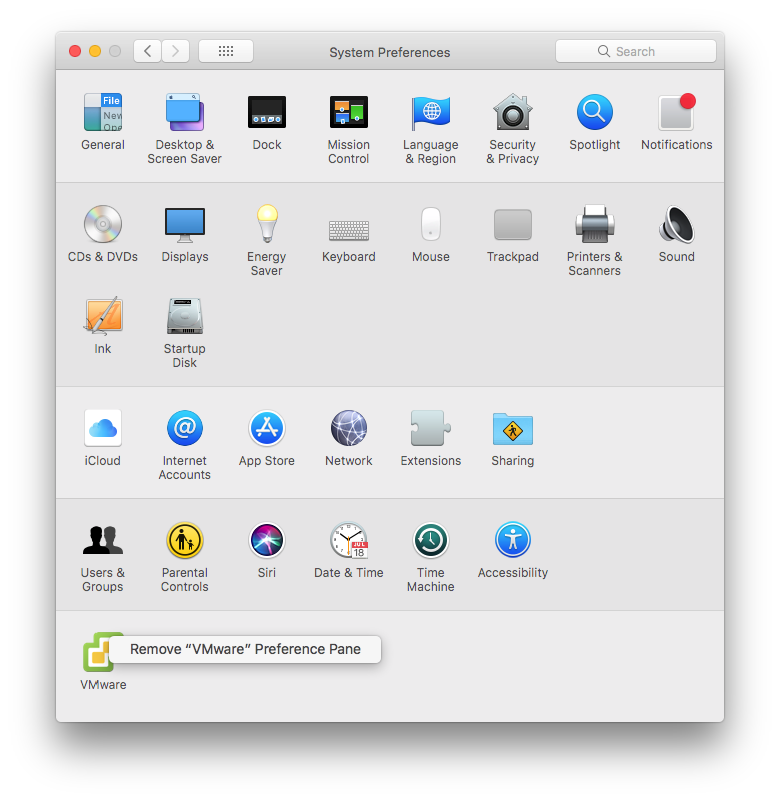
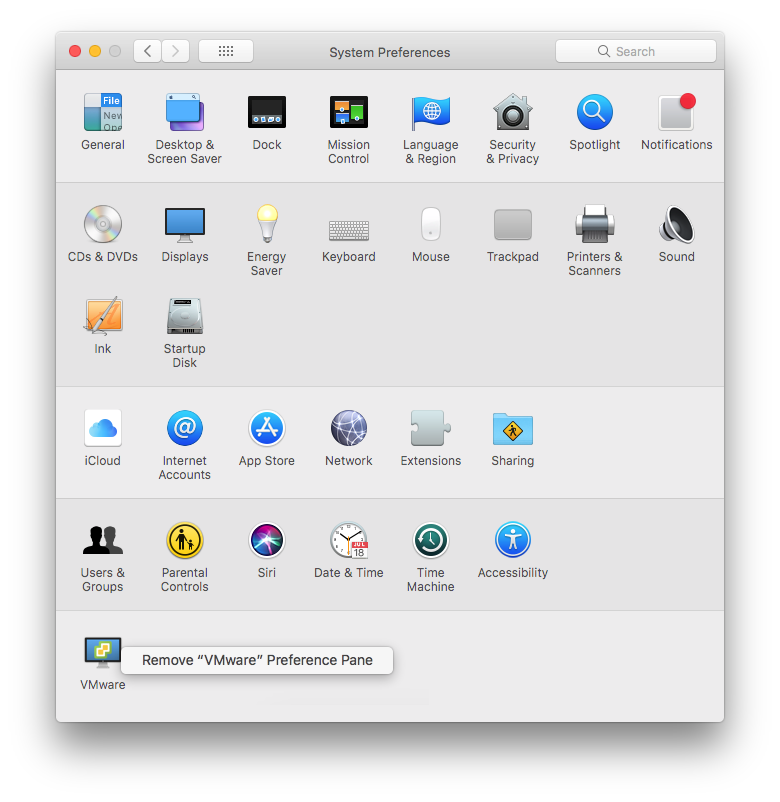
Update documentation and images

Changed region(s): [[0.0923, 0.7793, 0.5231, 0.8728]]

diff --git a/README.md b/README.md
@@ -1,4 +1,4 @@
-VMware.PreferencePane
+![AppIcon](VMware/Assets.xcassets/AppIcon.appiconset/icon32.png) VMware.PreferencePane
 =====================
 
 [![GitHub license](https://img.shields.io/badge/license-MIT-blue.svg)](https://github.com/MarLoe/VMware.PreferencePane/blob/master/LICENSE)
